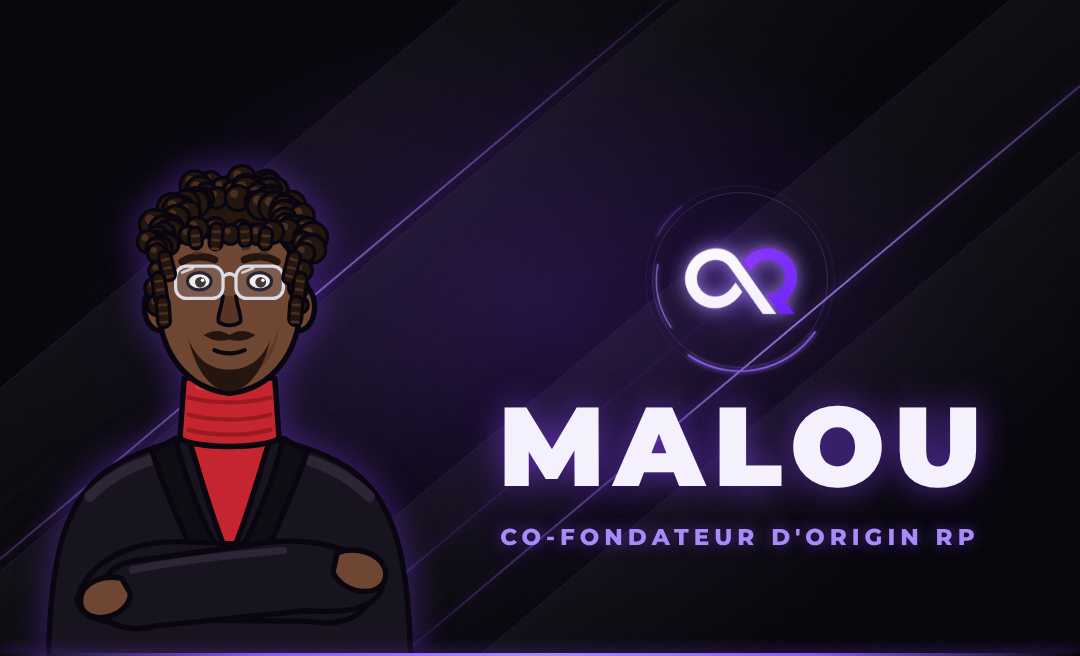
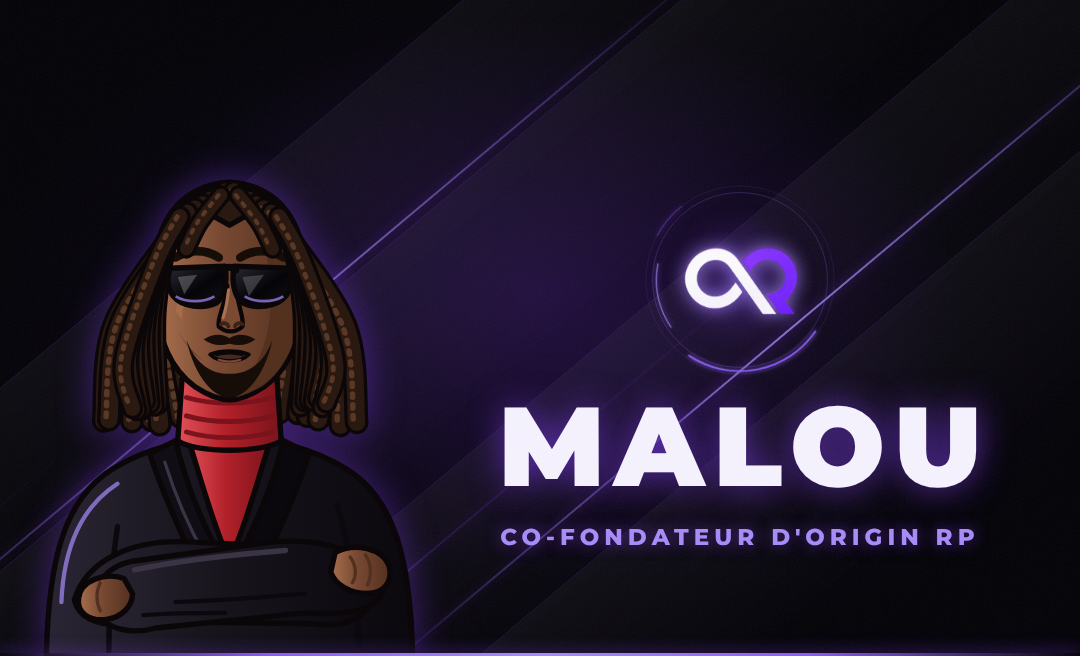
Kit stream : Malou version GTA (lunettes noires, locks au carré)
Claude-Session: https://claude.ai/code/session_011WCt7UcaB8RRKkMjveEExs

diff --git a/originrp_stream/README.md b/originrp_stream/README.md
@@ -51,7 +51,7 @@ Le cadre caméra est en bas à droite : placer la webcam dessous.
 Pour un autre streamer : `tiktok/banniere-haut.html?nom=Pseudo&role=Streamer officiel`, puis capture en 1080 × 656
 (ou me demander l'export). Le contenu est décalé vers le bas pour ne pas passer sous les onglets TikTok.
 
-Le personnage cartoon de Malou est à gauche (`commun/persos/malou.svg`). Pour un autre streamer avec son personnage :
+Le personnage de Malou (style GTA, lunettes noires, locks au carré) est à gauche (`commun/persos/malou.svg`) ; l'ancienne version cartoon est dans `malou-cartoon.svg` (`?perso=malou-cartoon`). Pour un autre streamer avec son personnage :
 ajouter son dessin dans `commun/persos/` puis `?nom=Pseudo&perso=nom_du_fichier` (sans `.svg`).
 
 ## Bannière TikTok du bas
